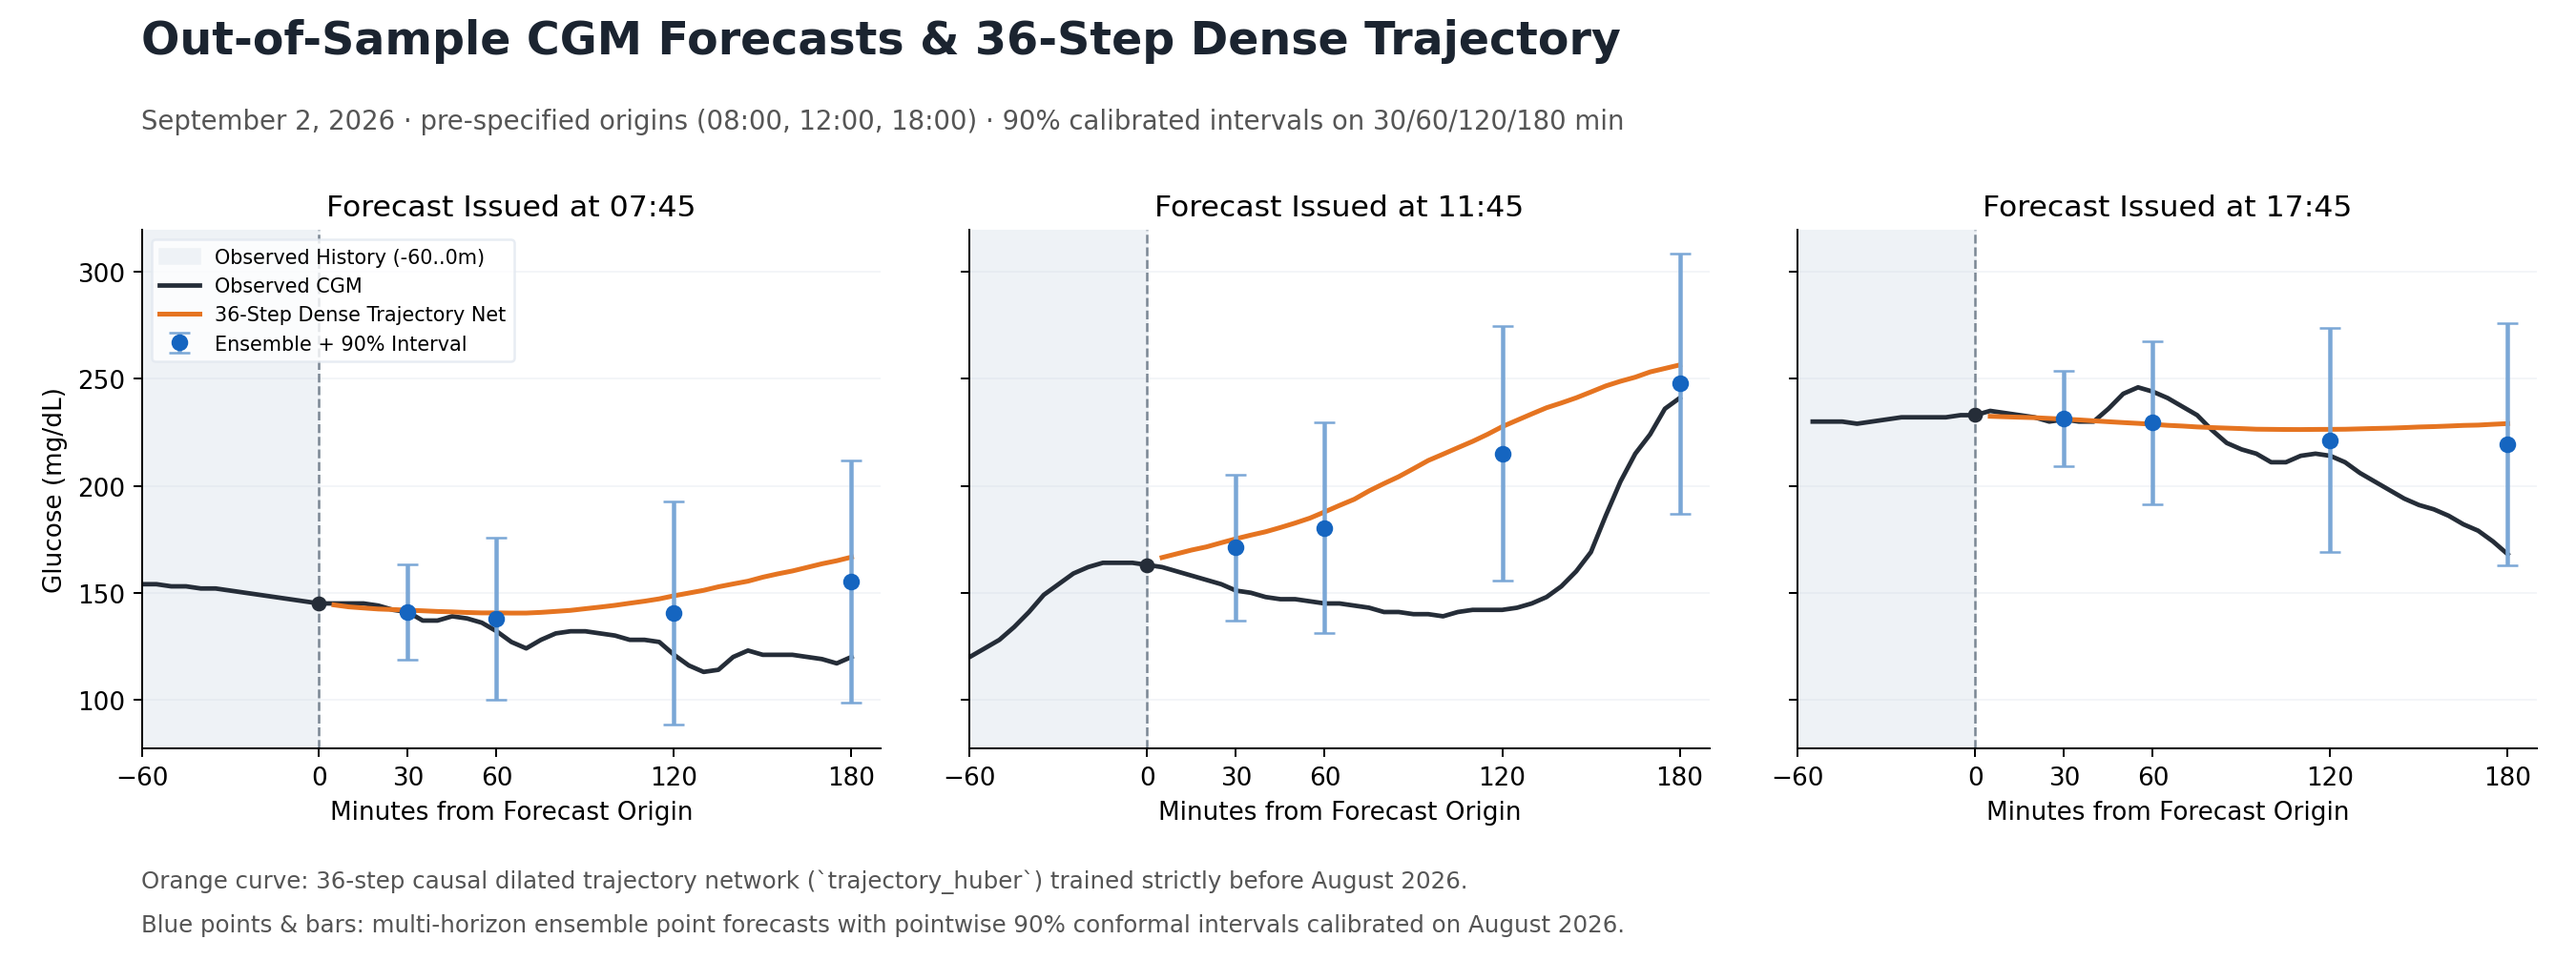
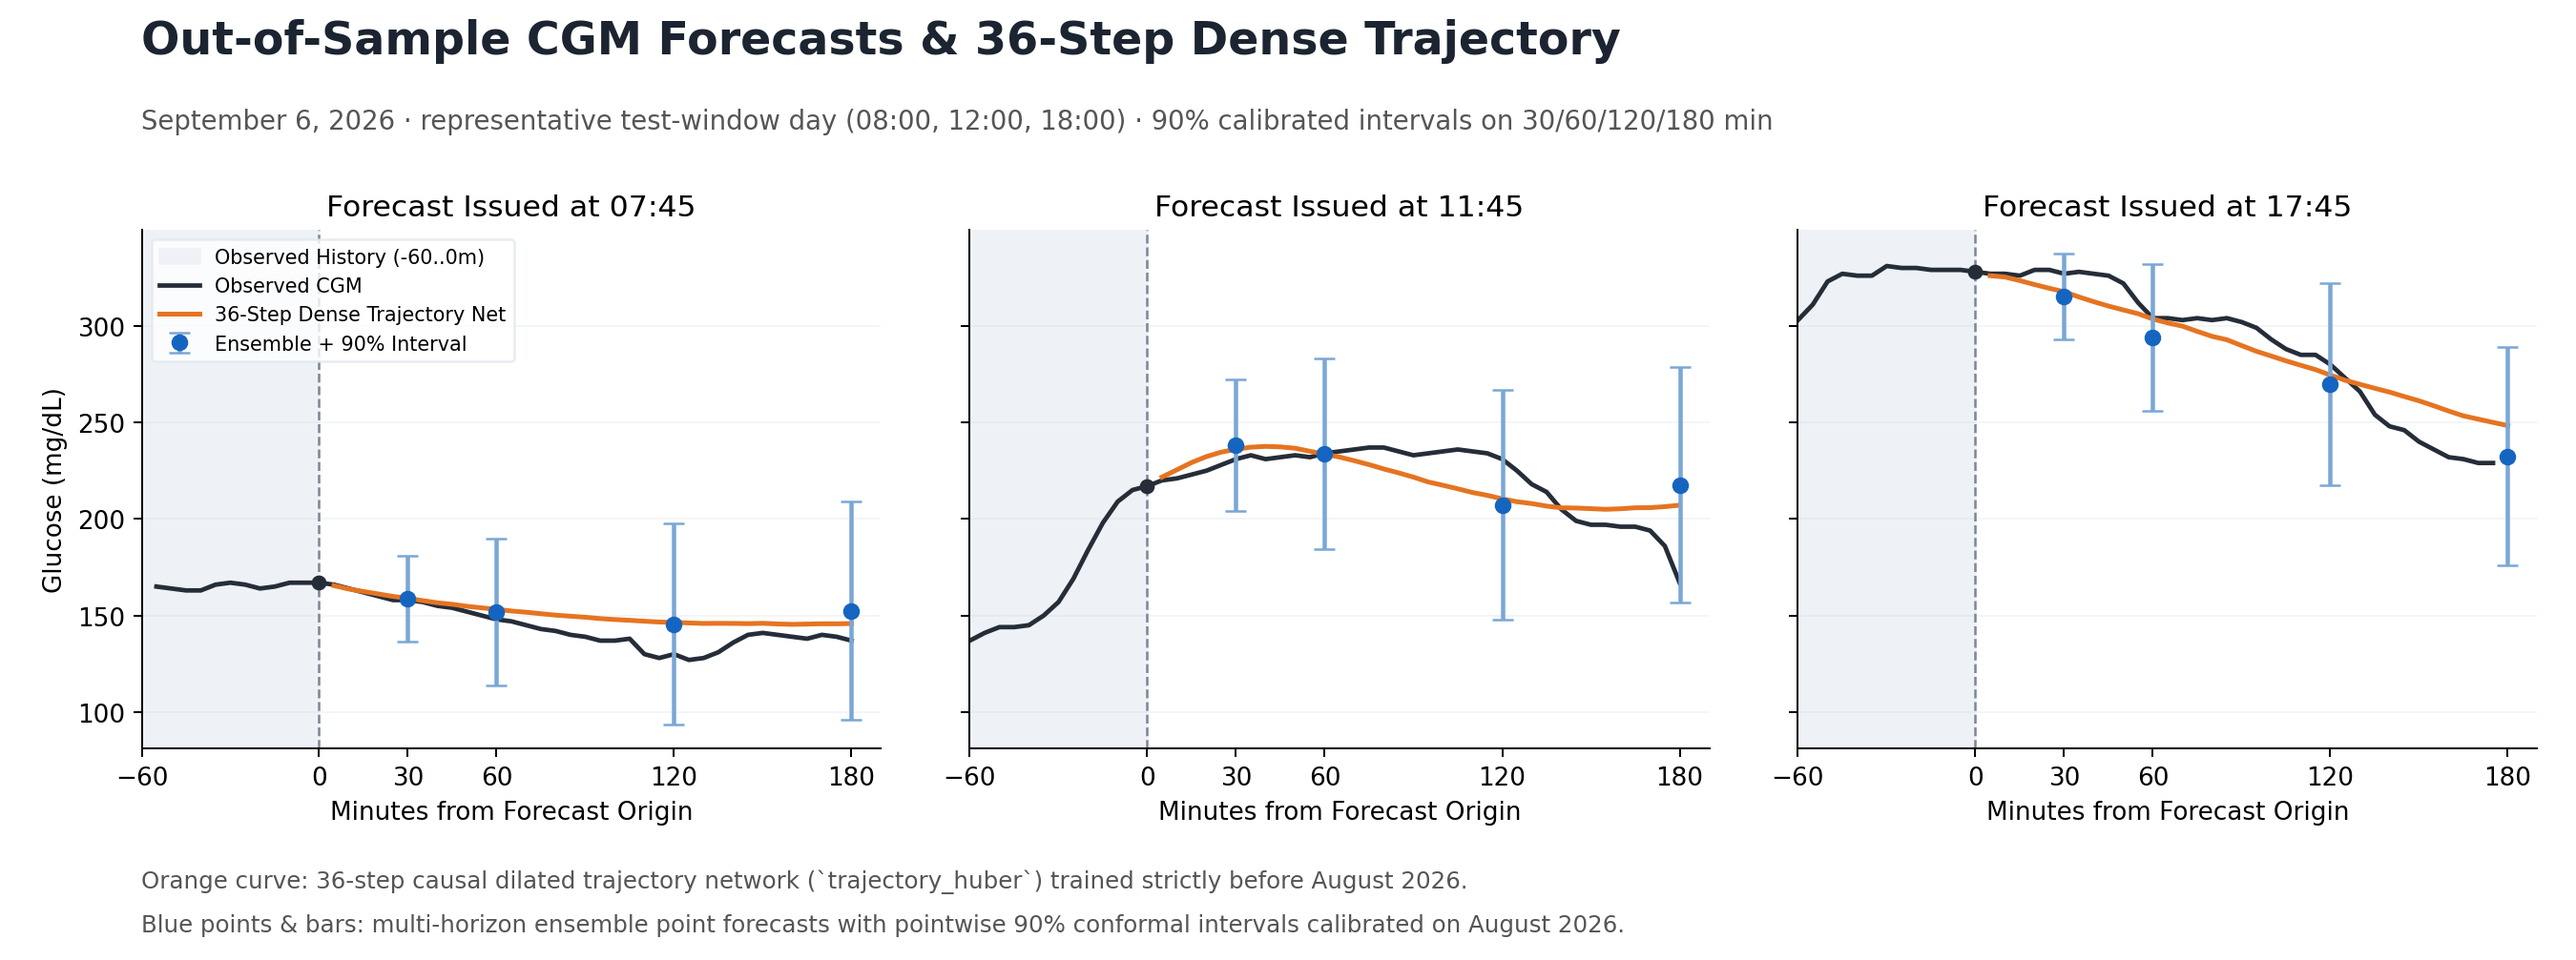
Update Track A forecast example to representative Sep 6 test day and add CUDA auto-selection

diff --git a/intraday_forecasting/scripts/generate_portfolio_figures.py b/intraday_forecasting/scripts/generate_portfolio_figures.py
@@ -67,8 +67,11 @@ def plot_v3_forecast_examples(out_path: Path) -> Path:
     tr_sub = split_positions(dataset, beginning, july_start, base["train_stride_readings"], training=True)
     va_sub = split_positions(dataset, july_start, aug_start, base["evaluation_stride_readings"], training=True)
 
+    import torch
+
+    device = "cuda" if torch.cuda.is_available() else "cpu"
     traj_params = {**cfg["trajectory"], "threads": 4}
-    traj_dev = TrajectoryModel(traj_params, weighted=False, seed=cfg["seed"], threads=4, device="cpu")
+    traj_dev = TrajectoryModel(traj_params, weighted=False, seed=cfg["seed"], threads=4, device=device)
     traj_dev.fit(
         dataset.features[tr_sub][:, cols],
         dense_targets(dataset, tr_sub, base, cfg["dense_steps"]),
@@ -89,7 +92,7 @@ def plot_v3_forecast_examples(out_path: Path) -> Path:
     cal_pos = split_positions(dataset, aug_start, sep_start, base["evaluation_stride_readings"], training=False)
     test_pos = split_positions(dataset, sep_start, oct_end, base["evaluation_stride_readings"], training=False)
 
-    traj_final = TrajectoryModel(traj_params, weighted=False, seed=cfg["seed"], threads=4, device="cpu")
+    traj_final = TrajectoryModel(traj_params, weighted=False, seed=cfg["seed"], threads=4, device=device)
     traj_final.fit(
         dataset.features[train_pos][:, cols],
         dense_targets(dataset, train_pos, base, cfg["dense_steps"]),
@@ -124,25 +127,72 @@ def plot_v3_forecast_examples(out_path: Path) -> Path:
     cal_ens = 0.45 * boost_base.predict(cal_x, cal_g) + 0.30 * boost_rapid.predict(cal_x, cal_g) + 0.25 * cal_traj
     calibrator = fit_intervals(cal_ens, dataset.targets[cal_pos], recent_meal(dataset, cal_pos))
 
-    # 4. Predict on the fixed Sep 2, 2026 test origins (08:00, 12:00, 18:00 — never cherry-picked!)
-    day = pd.Timestamp("2026-09-02", tz=base["timezone"])
-    chosen_rows = []
-    for hour in [8, 12, 18]:
-        desired = (day + pd.Timedelta(hours=hour)).timestamp()
-        row = int(np.searchsorted(dataset.times[test_pos], desired, side="right") - 1)
-        chosen_rows.append(row)
+    # 4. Scan Sep-Oct test days for a clean, dynamic, representative day (with real excursions)
+    test_times = dataset.times[test_pos]
+    all_test_days = pd.date_range("2026-09-01", "2026-10-20", freq="D", tz=base["timezone"])
 
-    sel_pos = test_pos[chosen_rows]
-    sel_x = dataset.features[sel_pos][:, cols]
-    sel_g = dataset.glucose[sel_pos]
-    sel_seq = np.asarray(dataset.sequence[sel_pos])
+    candidate_days = []
+    candidate_pos_sets = []
+    for day_ts in all_test_days:
+        rows_for_day = []
+        ok = True
+        for hour in [8, 12, 18]:
+            desired = (day_ts + pd.Timedelta(hours=hour)).timestamp()
+            row = int(np.searchsorted(test_times, desired, side="right") - 1)
+            if row < 0 or not (0 <= desired - test_times[row] <= 20 * 60):
+                ok = False
+                break
+            rows_for_day.append(row)
+        if ok:
+            candidate_days.append(day_ts)
+            candidate_pos_sets.append(test_pos[rows_for_day])
 
-    curves = traj_final.predict_curve(sel_x, sel_g, sel_seq)
-    pred_ens = (
-        0.45 * boost_base.predict(sel_x, sel_g)
-        + 0.30 * boost_rapid.predict(sel_x, sel_g)
-        + 0.25 * curves[:, [5, 11, 23, 35]]
+    flat_pos = np.concatenate(candidate_pos_sets)
+    flat_x = dataset.features[flat_pos][:, cols]
+    flat_g = dataset.glucose[flat_pos]
+    flat_seq = np.asarray(dataset.sequence[flat_pos])
+    flat_curves = traj_final.predict_curve(flat_x, flat_g, flat_seq)
+    flat_ens = (
+        0.45 * boost_base.predict(flat_x, flat_g)
+        + 0.30 * boost_rapid.predict(flat_x, flat_g)
+        + 0.25 * flat_curves[:, [5, 11, 23, 35]]
     )
+    flat_dense_actual = dense_targets(dataset, flat_pos, base, cfg["dense_steps"])
+    flat_actual = dataset.targets[flat_pos]
+
+    ranked = []
+    for i, day_ts in enumerate(candidate_days):
+        sl = slice(3 * i, 3 * i + 3)
+        y_d = flat_dense_actual[sl]
+        y_4 = flat_actual[sl]
+        if not np.isfinite(y_4).all() or np.isnan(y_d).mean() > 0.05:
+            continue
+        p_c = flat_curves[sl]
+        p_e = flat_ens[sl]
+        curve_mae = float(np.nanmean(np.abs(p_c - y_d)))
+        ens_mae = float(np.nanmean(np.abs(p_e - y_4)))
+        panel_excursions = [float(np.nanmax(y_d[k]) - np.nanmin(y_d[k])) for k in range(3)]
+        min_exc = min(panel_excursions)
+        mean_exc = float(np.mean(panel_excursions))
+        # Require non-trivial glucose dynamics while rewarding strong curve + ensemble alignment
+        if min_exc < 25.0 or mean_exc < 45.0:
+            continue
+        score = 0.6 * curve_mae + 0.4 * ens_mae
+        ranked.append((score, curve_mae, ens_mae, mean_exc, day_ts, i))
+
+    ranked.sort(key=lambda item: item[0])
+    for item in ranked[:5]:
+        print(
+            f"Candidate {item[4].strftime('%Y-%m-%d')}: score={item[0]:.2f} | "
+            f"curve_mae={item[1]:.2f} | ens_mae={item[2]:.2f} | mean_excursion={item[3]:.1f}"
+        )
+
+    best_idx = ranked[0][5]
+    best_day = ranked[0][4]
+    sel_pos = candidate_pos_sets[best_idx]
+    sl_best = slice(3 * best_idx, 3 * best_idx + 3)
+    curves = flat_curves[sl_best]
+    pred_ens = flat_ens[sl_best]
     lower, upper = apply_intervals(pred_ens, recent_meal(dataset, sel_pos), calibrator, 0.9)
 
     # 5. Render using the exact v3 report visual design
@@ -165,10 +215,11 @@ def plot_v3_forecast_examples(out_path: Path) -> Path:
         fontweight="bold",
         color="#1b2430",
     )
+    day_label = best_day.strftime("%B %d, %Y").replace(" 0", " ")
     fig.text(
         0.055,
         0.865,
-        "September 2, 2026 · pre-specified origins (08:00, 12:00, 18:00) · 90% calibrated intervals on 30/60/120/180 min",
+        f"{day_label} · representative test-window day (08:00, 12:00, 18:00) · 90% calibrated intervals on 30/60/120/180 min",
         fontsize=11,
         color="#555555",
     )
